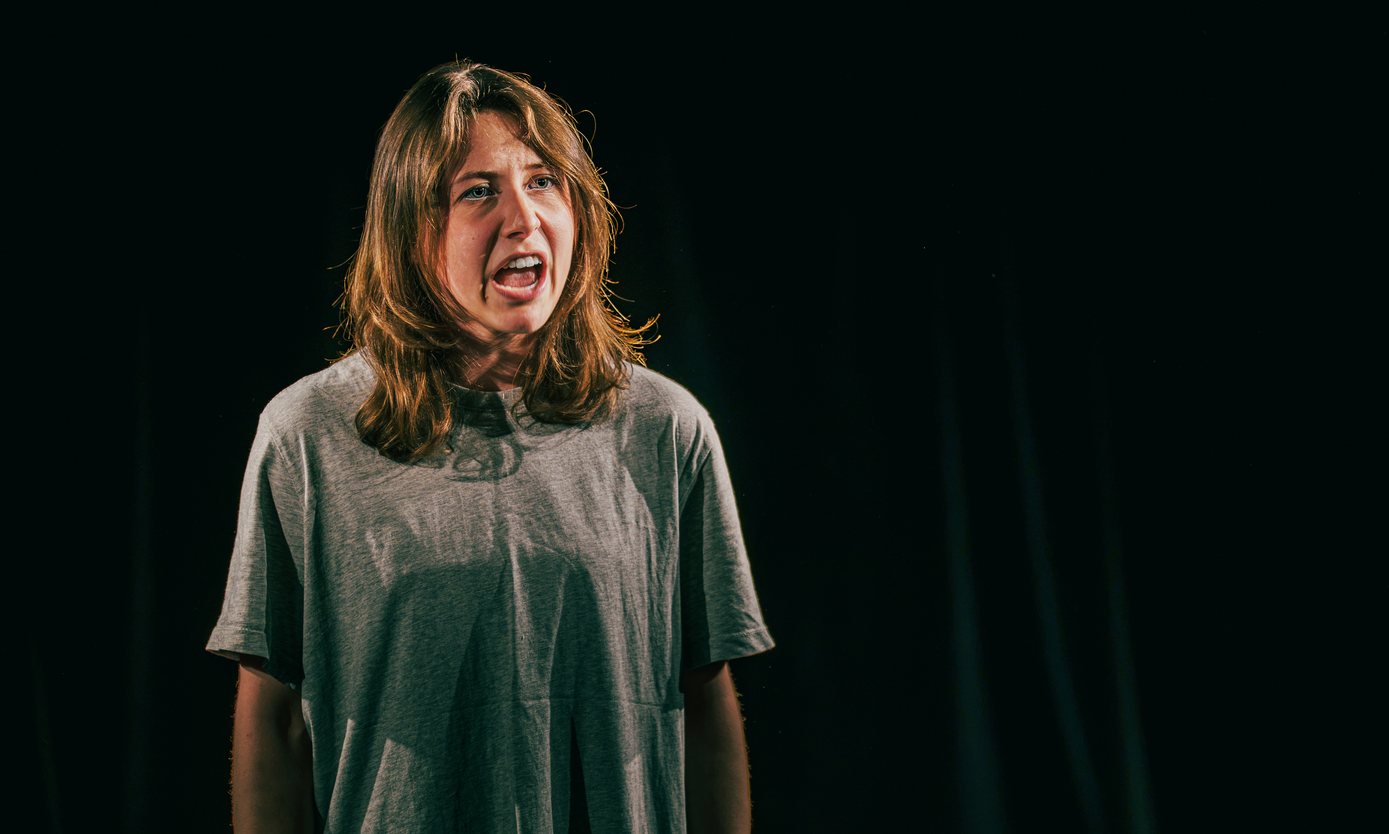
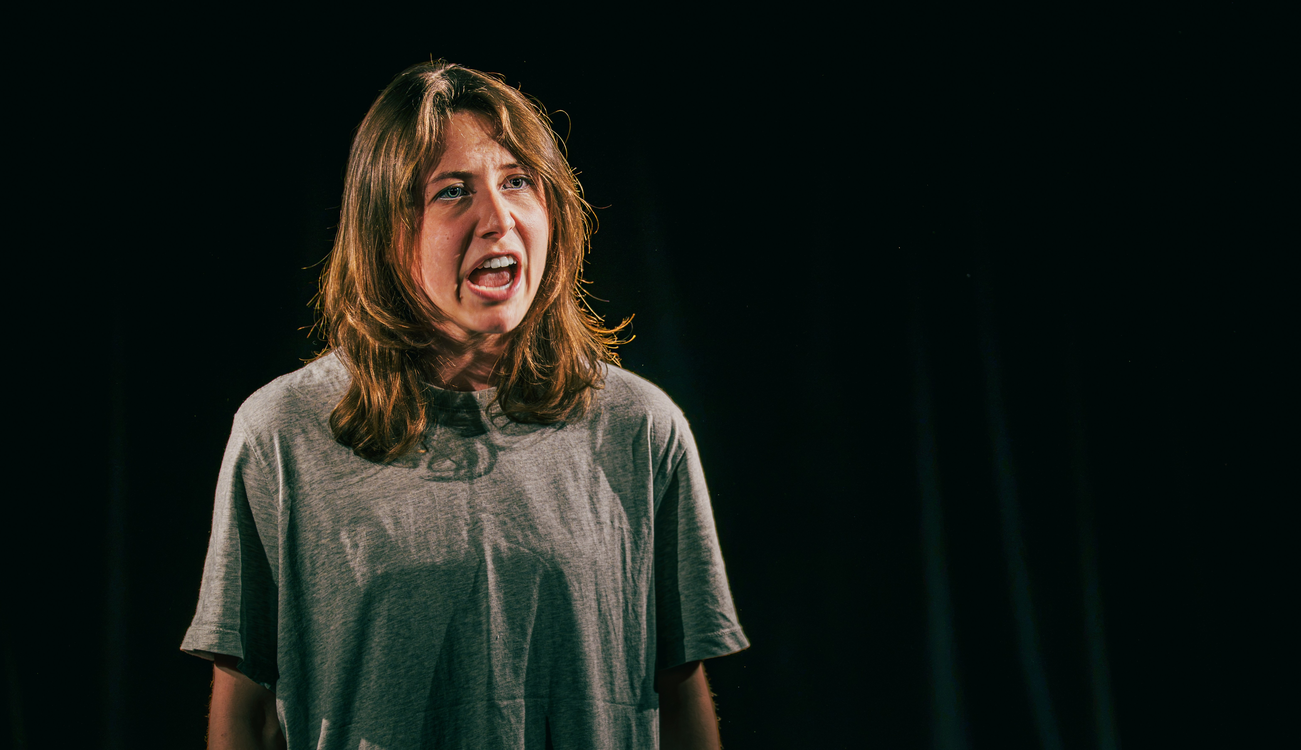
Modifs

Changed region(s): [[0.1245, 0.062, 0.5915, 1.0]]

diff --git a/pages/spectacles.html b/pages/spectacles.html
@@ -89,14 +89,14 @@
 
                         <!-- Images du spectacle -->
                         <div class="grid grid-cols-1 sm:grid-cols-2 lg:grid-cols-4 gap-3 sm:gap-4 mb-2">
-                            <img src="../images/spectacle/pay-aap3.jpg" alt="Spectacle Attentat à la pudeur" class="w-full h-56 sm:h-48 object-cover rounded-lg hover:opacity-90 transition">
-                            <img src="../images/spectacle/pay-aap7.jpg" alt="Spectacle Attentat à la pudeur" class="w-full h-56 sm:h-48 hidden md:inline object-cover rounded-lg hover:opacity-90 transition">
-                            <img src="../images/spectacle/pay-aap4.jpg" alt="Spectacle Attentat à la pudeur" class="w-full h-56 sm:h-48 hidden md:inline object-cover rounded-lg hover:opacity-90 transition">
-                            <img src="../images/spectacle/pay-aap6.jpg" alt="Spectacle Attentat à la pudeur" class="w-full h-56 sm:h-48 hidden md:inline object-cover rounded-lg hover:opacity-90 transition">
-                            <img src="../images/spectacle/por-aap1.jpg" alt="Spectacle Attentat à la pudeur" class="w-full h-96 sm:h-48 object-cover rounded-lg hover:opacity-90 transition">
-                            <img src="../images/spectacle/por-aap2.jpg" alt="Spectacle Attentat à la pudeur" class="w-full h-96 sm:h-48 object-cover rounded-lg hover:opacity-90 transition">
-                            <img src="../images/spectacle/pay-aap5.jpg" alt="Spectacle Attentat à la pudeur" class="w-full h-56 sm:h-48 object-cover rounded-lg hover:opacity-90 transition">
-                            <img src="../images/spectacle/pay-aap8.jpg" alt="Spectacle Attentat à la pudeur" class="w-full h-56 sm:h-48 hidden md:inline object-cover rounded-lg hover:opacity-90 transition">
+                            <img src="../images/spectacle/pay-aap3.webp" alt="Spectacle Attentat à la pudeur" class="w-full h-56 sm:h-48 object-cover rounded-lg hover:opacity-90 transition">
+                            <img src="../images/spectacle/pay-aap7.webp" alt="Spectacle Attentat à la pudeur" class="w-full h-56 sm:h-48 hidden md:inline object-cover rounded-lg hover:opacity-90 transition">
+                            <img src="../images/spectacle/pay-aap4.webp" alt="Spectacle Attentat à la pudeur" class="w-full h-56 sm:h-48 hidden md:inline object-cover rounded-lg hover:opacity-90 transition">
+                            <img src="../images/spectacle/pay-aap6.webp" alt="Spectacle Attentat à la pudeur" class="w-full h-56 sm:h-48 hidden md:inline object-cover rounded-lg hover:opacity-90 transition">
+                            <img src="../images/spectacle/por-aap1.webp" alt="Spectacle Attentat à la pudeur" class="w-full h-96 sm:h-48 object-cover rounded-lg hover:opacity-90 transition">
+                            <img src="../images/spectacle/por-aap2.webp" alt="Spectacle Attentat à la pudeur" class="w-full h-96 sm:h-48 object-cover rounded-lg hover:opacity-90 transition">
+                            <img src="../images/spectacle/pay-aap5.webp" alt="Spectacle Attentat à la pudeur" class="w-full h-56 sm:h-48 object-cover rounded-lg hover:opacity-90 transition">
+                            <img src="../images/spectacle/pay-aap8.webp" alt="Spectacle Attentat à la pudeur" class="w-full h-56 sm:h-48 hidden md:inline object-cover rounded-lg hover:opacity-90 transition">
                         </div>
                         <div class="w-full flex items-center justify-end mb-6">
                             <div class="text-gray-400 text-sm md:text-base">Photos par Matthieu le Jeune</div>

diff --git a/index.html b/index.html
@@ -73,18 +73,18 @@
         Le navigateur ne télécharge que l'image qui correspond à l'écran.
     -->
     <div class="hero-slide active"
-         style="--img-desktop: url('./images/accueil/pay-aap3.jpg');
-                    --img-mobile: url('./images/accueil/mobile/pay-aap3.jpg');">
+         style="--img-desktop: url('./images/accueil/pay-aap3.webp');
+                    --img-mobile: url('./images/accueil/mobile/pay-aap3-mobile.webp');">
         <div class="hero-overlay"></div>
     </div>
     <div class="hero-slide"
-         style="--img-desktop: url('./images/accueil/pay-aap6-modif.jpg');
-                    --img-mobile: url('./images/accueil/mobile/por-aap1.jpg');">
+         style="--img-desktop: url('./images/accueil/pay-aap6-modif.webp');
+                    --img-mobile: url('./images/accueil/mobile/por-aap1.webp');">
         <div class="hero-overlay"></div>
     </div>
     <div class="hero-slide"
-         style="--img-desktop: url('./images/accueil/pay-aap9-modif.jpg');
-                    --img-mobile: url('./images/accueil/mobile/por-aap2.jpg');">
+         style="--img-desktop: url('./images/accueil/pay-aap9-modif.webp');
+                    --img-mobile: url('./images/accueil/mobile/por-aap2.webp');">
         <div class="hero-overlay"></div>
     </div>
 
